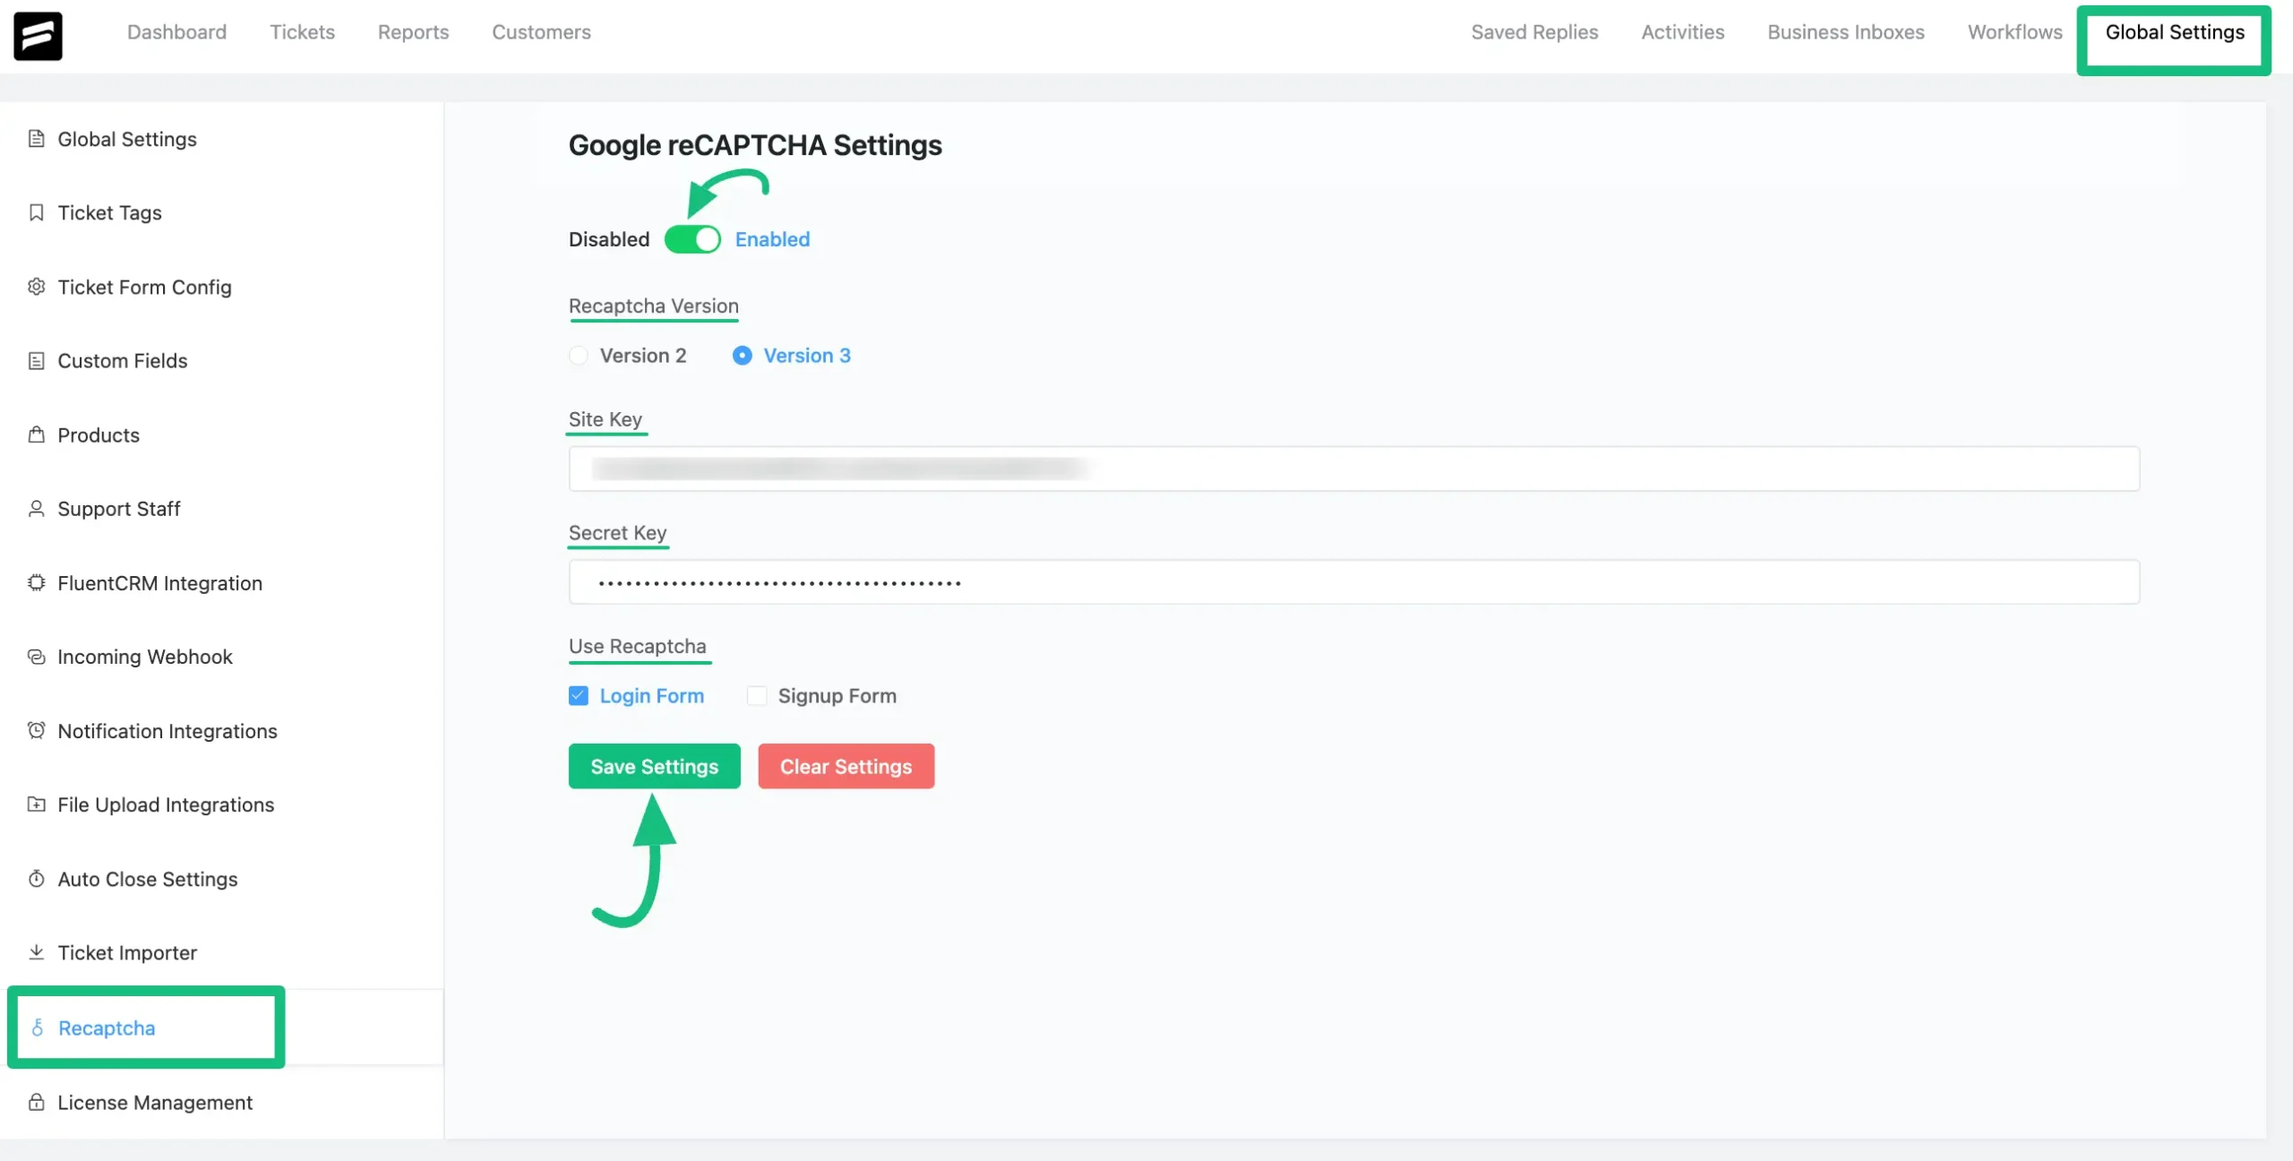
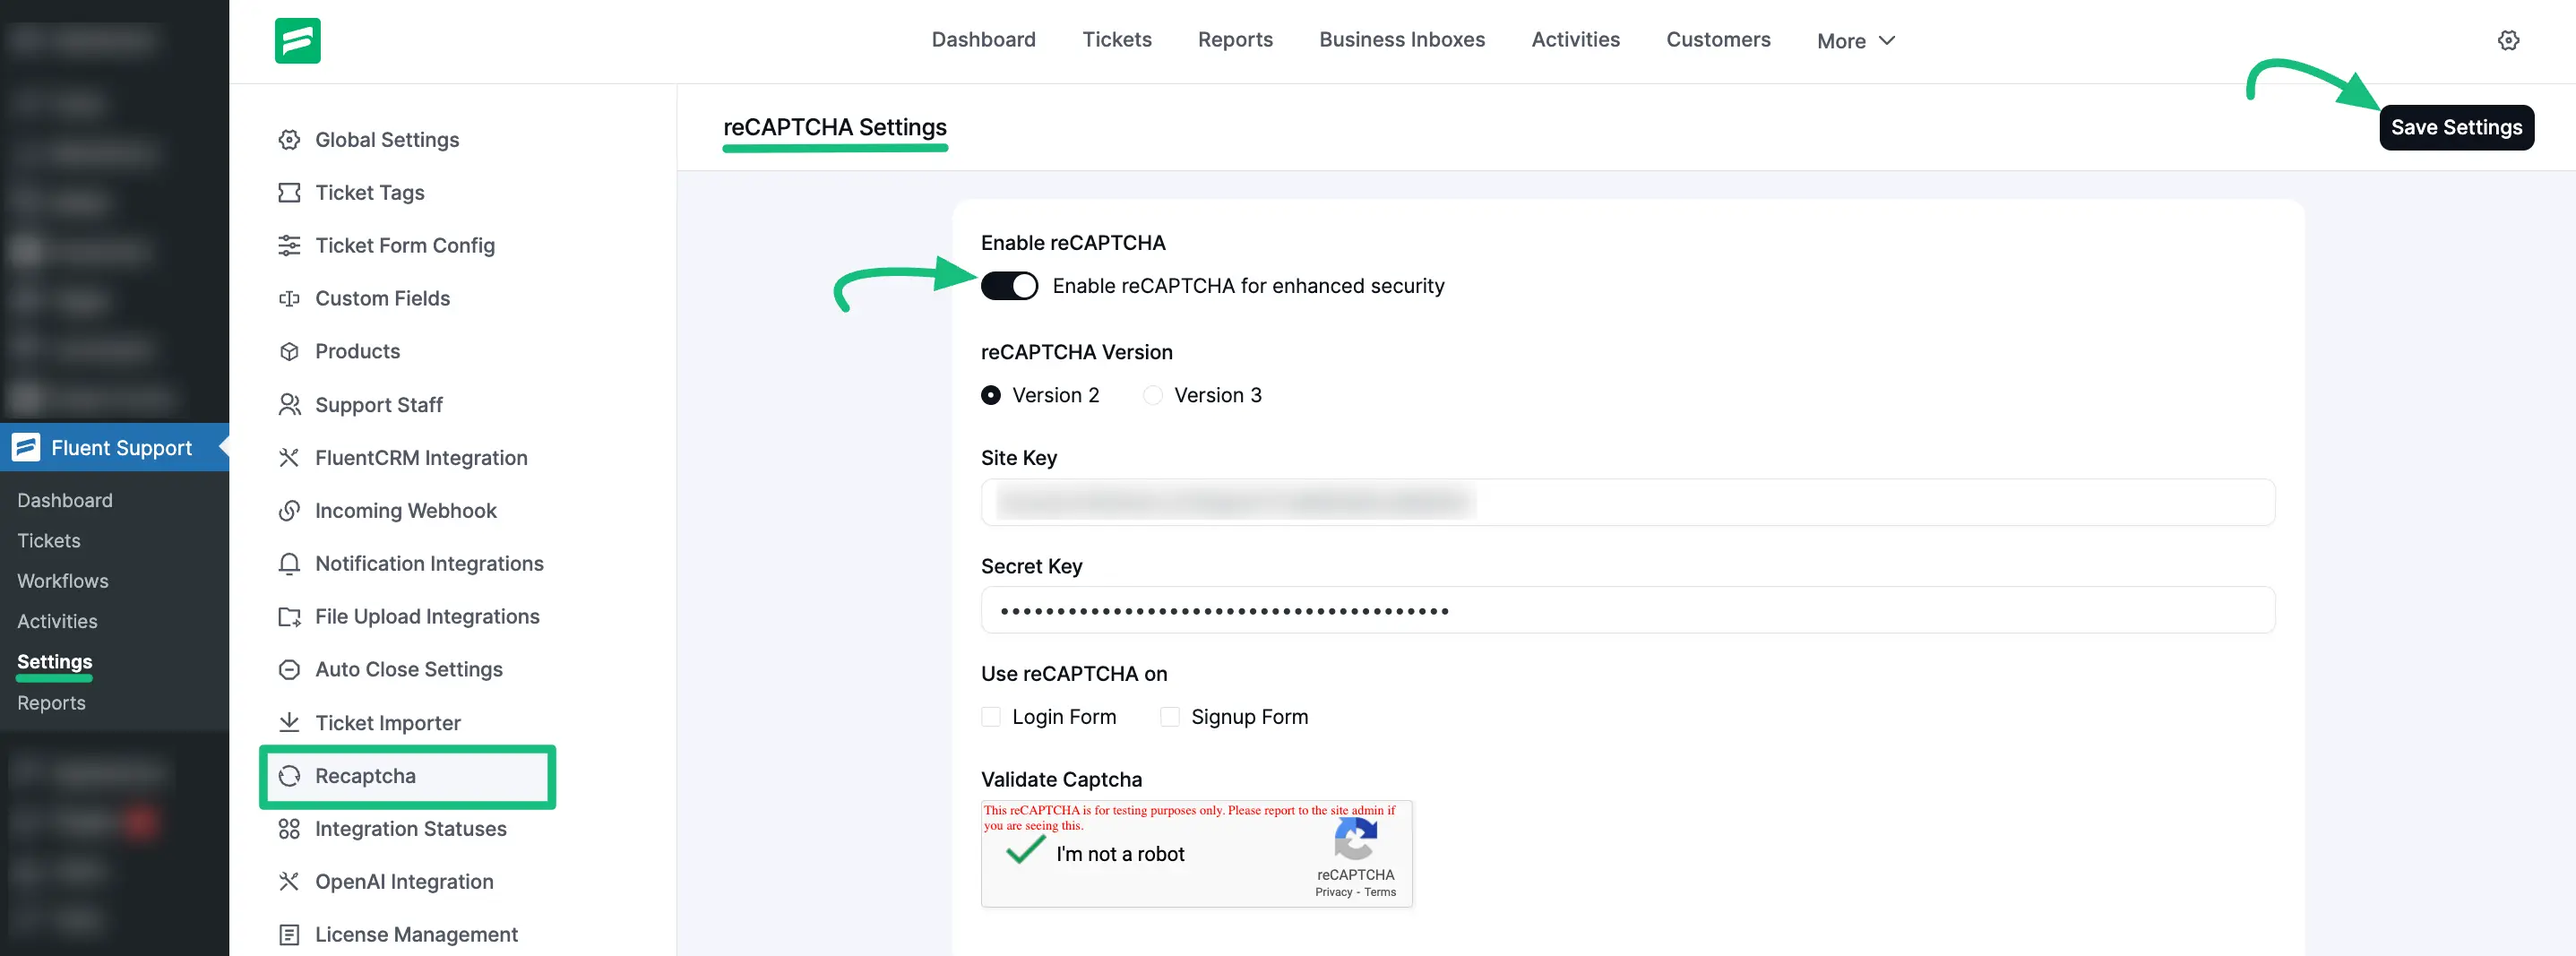
Google reCAPTCHA Integration doc update
Google reCAPTCHA Integration doc update

diff --git a/guide/integrations-channels/other/google-recaptcha-integration.md b/guide/integrations-channels/other/google-recaptcha-integration.md
@@ -5,7 +5,7 @@
 
 **[Fluent Support](https://fluentsupport.com/)** allows users to integrate with **Google** **ReCaptcha** to protect their websites from spam. This article will guide you through integrating Google ReCapcha with Fluent Support.
 
-## Accessing Google ReCapcha Console #
+## Accessing Google ReCapcha Console 
 
 Visit the [**Google reCAPCHA**](https://www.google.com/recaptcha/about/) website and click on the **v3 Admin Console**. It will take you to the “**Register a new site”** page where you can choose how to add reCaptcha to your website.
 
@@ -23,13 +23,20 @@ Now you will get a **Copy Site Key** and a **Copy Secret Key**. Copy these keys 
 
 ![Copy Site Key and a Copy Secret Key](/guide/public/images/integrations-channels/other/google-recaptcha-integration/copy-site-key-and-scret-key-scaled-1.webp)
 
-## Configure reCAPCHA into Fluent Support #
+## Configure reCAPCHA into Fluent Support 
 
-Go to **Global Settings** from your **Fluent** **Support** **Dashboard,** click on **Recapcha** from the left menu, and press the **Enable** option.
+Now, go to **Settings** from your **Fluent Support Dashboard**, click on **Recaptcha** from the left menu. Enable the reCAPTCHA integration by toggling the **Enable reCAPTCHA** switch.
 
-Now, select **ReCaptcha Version (V2 or V3)** , **paste the keys** you’ve copied before under the **Site key** and **Secret key** fields, and choose where to use it (Login or Signup Form).
+Once enabled, you will need to configure the following settings:
 
-Finally, click on the **Save Settings.**
+ * **reCAPTCHA Version:** Select either **Version 2** or **Version 3** depending on the keys you generated from Google.
+ * **Site Key:** **Paste** the Site Key you obtained from the Google reCAPTCHA admin console.
+ * **Secret Key:** **Paste** the Secret Key you obtained from the Google reCAPTCHA admin console.
+ * **Use reCAPTCHA on:** Choose where you want the **reCAPTCHA** challenge to appear by checking the boxes for **Login Form** and/or **Signup Form**.
+
+After entering your keys, you can verify if the integration works correctly by checking the **Validate Captcha** section at the bottom. It should display the "I'm not a robot" checkbox or badge.
+
+Finally, click on the **Save Settings** button in the top right corner to apply your changes.
 
 ![Configure reCAPCHA into Fluent Support](/guide/public/images/integrations-channels/other/google-recaptcha-integration/global-settings-recapcha-save-settings-scaled-1.webp)
 

diff --git a/guide/integrations-channels/other/betterdocs-integration.md b/guide/integrations-channels/other/betterdocs-integration.md
@@ -12,7 +12,7 @@ This article will guide you through integrating [**BetterDocs**](https://betterd
 To integrate **BetterDocs** into **FluentSupport** , follow the steps with screenshots below —
 
 > [!NOTE]
-> Note: To ensure the BetterDocs integration works, the BetterDocs plugin must be installed and active on your website.
+> To ensure the BetterDocs integration works, the BetterDocs plugin must be installed and active on your website.
 
 From the **Fluent Support Dashboard**, go to **Settings** and click on **Ticket Form Config** from the left sidebar. This will open the **Ticket Form Settings** page.
 
